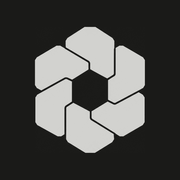
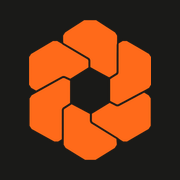
feat(brand): orange Onyx mark on transparent so it stands out in the taskbar and tray (#227)
Riley picked option F: the mark in signal orange (#FF6A1A) on a transparent
background, filling the icon. Applies to the PWA icons (taskbar, tray, Start menu),
favicons and favicon.ico (16/32/48), the in-app marks and the notification badge.
iPhone (apple-touch-icon) and Android (new icon-maskable-512) need an opaque tile, so
they get the orange mark on #1A1A18. All icon addresses move to ?v=3 so devices fetch
the new files; manifest id/start_url unchanged.

diff --git a/frontend/src/components/MobileNav.tsx b/frontend/src/components/MobileNav.tsx
@@ -143,7 +143,7 @@ export default function MobileNav() {
           content can't bleed under the iOS status bar. Mobile only. */}
       <header className="md:hidden fixed inset-x-0 top-0 z-40 bg-surface-sunken border-b border-border-subtle pt-[env(safe-area-inset-top)]">
         <div className="h-12 px-3 flex items-center justify-between">
-          <span className="flex items-center gap-2 text-[17px] font-bold lowercase tracking-[0.01em] text-text-primary"><img src="/icons/logo-mark-64.png?v=2" width={20} height={20} alt="" aria-hidden="true" className="shrink-0" />Onyx</span>
+          <span className="flex items-center gap-2 text-[17px] font-bold lowercase tracking-[0.01em] text-text-primary"><img src="/icons/logo-mark-64.png?v=3" width={20} height={20} alt="" aria-hidden="true" className="shrink-0" />Onyx</span>
           <button
             onClick={() => window.dispatchEvent(new Event(OPEN_COMMAND_PALETTE))}
             className="w-11 h-11 -mr-1 flex items-center justify-center rounded-control text-text-secondary hover:text-text-primary transition-colors"
@@ -254,7 +254,7 @@ export default function MobileNav() {
       >
         <div className="px-5 py-5 border-b border-border-subtle flex items-center justify-between pt-[max(1.25rem,env(safe-area-inset-top))]">
           <div>
-            <h1 className="flex items-center gap-2 text-base font-semibold text-text-primary tracking-tight"><img src="/icons/logo-mark-64.png?v=2" width={20} height={20} alt="" aria-hidden="true" className="shrink-0" />Onyx</h1>
+            <h1 className="flex items-center gap-2 text-base font-semibold text-text-primary tracking-tight"><img src="/icons/logo-mark-64.png?v=3" width={20} height={20} alt="" aria-hidden="true" className="shrink-0" />Onyx</h1>
             <p className="text-[11px] text-text-tertiary mt-0.5 font-mono">Personal Data Scientist</p>
           </div>
           <button

diff --git a/frontend/src/components/Sidebar.tsx b/frontend/src/components/Sidebar.tsx
@@ -63,7 +63,7 @@ export default function Sidebar() {
   return (
     <aside className="fixed inset-y-0 left-0 z-50 w-[220px] bg-surface-sunken border-r border-border-subtle flex flex-col max-md:hidden">
       <div className="shrink-0 px-5 py-5 border-b border-border-subtle">
-        <h1 className="flex items-center gap-2 text-[20px] font-bold lowercase leading-none tracking-[0.01em] text-text-primary"><img src="/icons/logo-mark-64.png?v=2" width={22} height={22} alt="" aria-hidden="true" className="shrink-0" />Onyx</h1>
+        <h1 className="flex items-center gap-2 text-[20px] font-bold lowercase leading-none tracking-[0.01em] text-text-primary"><img src="/icons/logo-mark-64.png?v=3" width={22} height={22} alt="" aria-hidden="true" className="shrink-0" />Onyx</h1>
         <p className="text-[11px] text-text-tertiary mt-1.5 font-mono">Personal Data Scientist</p>
       </div>
 

diff --git a/frontend/public/sw.js b/frontend/public/sw.js
@@ -15,8 +15,8 @@ self.addEventListener("push", (event) => {
   const options = {
     body: data.body || "New message",
     tag: data.tag || "onyx-agents",
-    icon: "/icons/icon-192.png?v=2", // new Onyx mark (2026-11-15); the ?v= makes Windows / Android fetch it fresh
-    badge: "/icons/logo-mark-96.png?v=2", // transparent mark: the small monochrome status-bar badge
+    icon: "/icons/icon-192.png?v=3", // new Onyx mark (2026-11-15); the ?v= makes Windows / Android fetch it fresh
+    badge: "/icons/logo-mark-96.png?v=3", // transparent mark: the small monochrome status-bar badge
     data: { url: data.url || "/agents" },
   };
   const badge = typeof data.badge === "number" && self.navigator.setAppBadge ? self.navigator.setAppBadge(data.badge).catch(() => {}) : Promise.resolve();

diff --git a/frontend/src/app/login/page.tsx b/frontend/src/app/login/page.tsx
@@ -64,7 +64,7 @@ export default function LoginPage() {
     <div className="min-h-screen flex items-center justify-center bg-surface px-4">
       <div className="w-full max-w-sm">
         <div className="text-center mb-8">
-          <h1 className="flex items-center justify-center gap-3 text-3xl font-semibold text-text-primary"><img src="/icons/logo-mark-96.png?v=2" width={40} height={40} alt="" aria-hidden="true" className="shrink-0" />Onyx</h1>
+          <h1 className="flex items-center justify-center gap-3 text-3xl font-semibold text-text-primary"><img src="/icons/logo-mark-96.png?v=3" width={40} height={40} alt="" aria-hidden="true" className="shrink-0" />Onyx</h1>
           <p className="text-text-tertiary mt-1">Personal Data Scientist</p>
         </div>
 

diff --git a/frontend/src/app/layout.tsx b/frontend/src/app/layout.tsx
@@ -40,10 +40,10 @@ export const metadata: Metadata = {
   },
   icons: {
     icon: [
-      { url: "/icons/favicon-32.png?v=2", sizes: "32x32", type: "image/png" },
-      { url: "/icons/favicon-16.png?v=2", sizes: "16x16", type: "image/png" },
+      { url: "/icons/favicon-32.png?v=3", sizes: "32x32", type: "image/png" },
+      { url: "/icons/favicon-16.png?v=3", sizes: "16x16", type: "image/png" },
     ],
-    apple: [{ url: "/apple-touch-icon.png?v=2", sizes: "180x180" }],
+    apple: [{ url: "/apple-touch-icon.png?v=3", sizes: "180x180" }],
   },
 };
 
